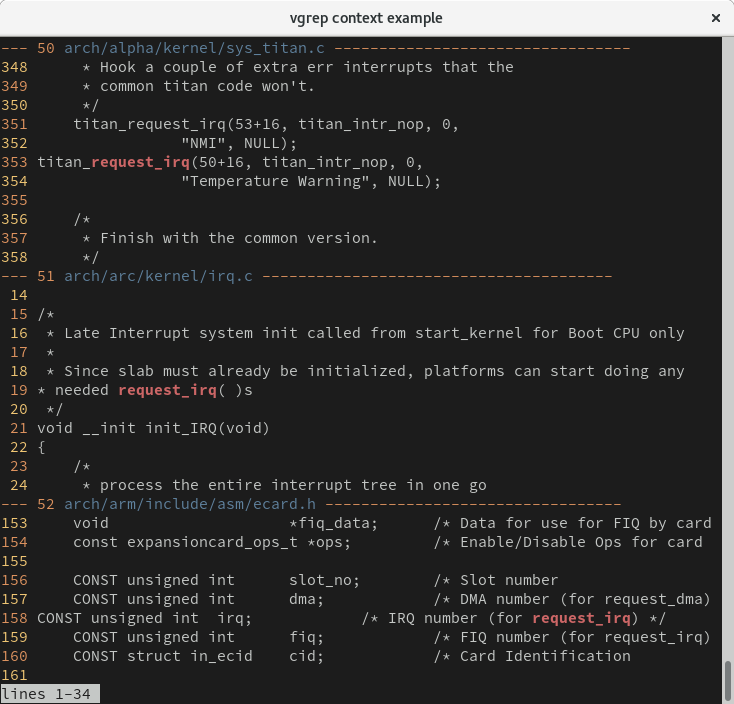
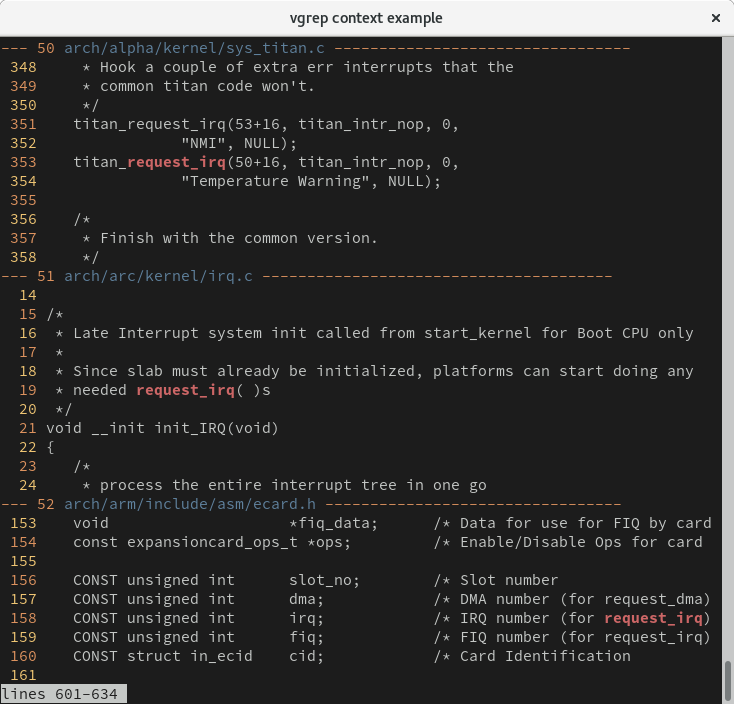
context: don't trim spaces
By default, all spaces are trimmed in the content column when the
matching lines are printed.  This should not happen when printing
context lines as it breaks the indentation.

diff --git a/colwriter/colwriter.go b/colwriter/colwriter.go
@@ -31,6 +31,7 @@ type ColWriter struct {
 	Padding []PaddingFunc  // left, right, none
 	Headers bool           // text in first row will be underlined
 	UseLess bool           // use less(1) instead of os.Stdout
+	Trim    []bool         // trim space of column
 	writer  *bufio.Writer  // in case we use less(1)
 	pipe    io.WriteCloser // in case we use less(1)
 	cmd     *exec.Cmd      // required for cmd.Wait() for less(1)
@@ -45,6 +46,7 @@ func New(numColumns int) *ColWriter {
 		Padding: make([]PaddingFunc, numColumns),
 		Headers: false,
 		UseLess: false,
+		Trim:    make([]bool, numColumns),
 		writer:  bufio.NewWriter(os.Stdout),
 		opened:  false,
 	}
@@ -140,6 +142,9 @@ func (cw *ColWriter) Write(rows [][]string) {
 			bright = false
 		}
 		for i, str := range row {
+			if cw.Trim[i] {
+				str = strings.TrimSpace(str)
+			}
 			out := cw.Padding[i](str, cw.Size[i], " ")
 			out = ansi.Color(out, cw.Colors[i], bright)
 			if i < max {

diff --git a/vgrep.go b/vgrep.go
@@ -176,7 +176,7 @@ func grep(args []string) {
 		Matches[i][0] = strconv.Itoa(i)
 		Matches[i][1] = file
 		Matches[i][2] = line
-		Matches[i][3] = strings.TrimSpace(content)
+		Matches[i][3] = content
 	}
 
 	Log.Debugf("Found %d matches", len(Matches))
@@ -470,6 +470,7 @@ func commandPrintMatches(indices []int) bool {
 	cw.Colors = []ansi.COLOR{ansi.YELLOW, ansi.BLUE, ansi.GREEN, ansi.DEFAULT}
 	cw.Padding = []colwriter.PaddingFunc{colwriter.PadLeft, colwriter.PadRight, colwriter.PadLeft, colwriter.PadNone}
 	cw.UseLess = !Options.NoLess
+	cw.Trim = []bool{false, false, false, true}
 
 	cw.Open()
 	cw.Write(toPrint)
